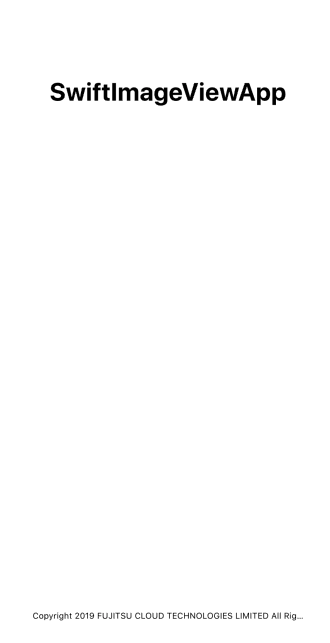
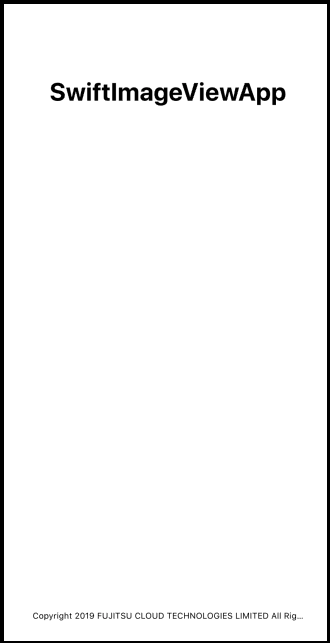
Add border and edit size of image

Changed region(s): [[0.0, 0.0, 1.0, 1.0]]

diff --git a/README.md b/README.md
@@ -82,7 +82,7 @@
 * 実行ボタン（さんかくの再生マーク）をクリックします
 * アプリが起動します
 
-![画像10](/readme-img/010.png)
+<img src="readme-img/010.png" width="550px">
 
 * 画面右下の「Download」ボタンをタップします
 * 先ほどアップロードした画像が表示されます
